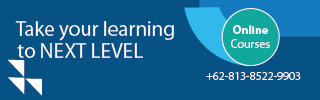
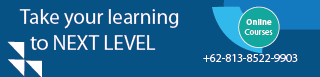
ok

diff --git a/src/pages/Tickets.jsx b/src/pages/Tickets.jsx
@@ -42,6 +42,36 @@ const Tickets = () => {
     const [isCommentsLoading, setIsCommentsLoading] = useState(false);
     const { currentColor, currentMode } = useStateContext();
     const navigate = useNavigate();
+    const getStoredUser = () => {
+        try {
+            return JSON.parse(localStorage.getItem('user') || '{}');
+        } catch (error) {
+            return {};
+        }
+    };
+    const getUserRoles = () => {
+        const storedUser = getStoredUser();
+        const rawRoles = storedUser.roles || storedUser.role || [];
+        if (Array.isArray(rawRoles)) {
+            return rawRoles.map((role) => String(role).toUpperCase());
+        }
+        if (typeof rawRoles === 'string') {
+            return [rawRoles.toUpperCase()];
+        }
+        return [];
+    };
+    const hasRole = (...allowedRoles) => {
+        const roles = getUserRoles();
+        return roles.some((role) => allowedRoles.some((allowed) => role === allowed || role === `ROLE_${allowed}` || `ROLE_${role}` === `ROLE_${allowed}`));
+    };
+    const canManageTickets = () => hasRole('ADMIN');
+    const ensureAdminAccess = (action = 'perform this action') => {
+        if (!canManageTickets()) {
+            alert(`Only admins can ${action}.`);
+            return false;
+        }
+        return true;
+    };
     const getAuthHeaders = () => {
         const token = localStorage.getItem('authToken');
         if (!token) return null;
@@ -245,12 +275,14 @@ const Tickets = () => {
         }));
     };
     const handleEditTicket = () => {
+        if (!ensureAdminAccess('edit tickets')) return;
         setEditFormData(mapTicketToFormData(selectedTicket));
         setIsEditingTicket(true);
     };
     const handleSaveEditedTicket = async (e) => {
         e.preventDefault();
         if (!selectedTicket?.id) return;
+        if (!ensureAdminAccess('edit tickets')) return;
 
         try {
             const headers = getAuthHeaders();
@@ -378,6 +410,7 @@ const Tickets = () => {
     };
     const handleCloseTicket = async () => {
         if (!selectedTicket?.id) return;
+        if (!ensureAdminAccess('close tickets')) return;
         if (!window.confirm(`Are you sure you want to close ticket: ${selectedTicket.noTiket}?`)) return;
 
         try {
@@ -409,6 +442,7 @@ const Tickets = () => {
     };
     const handleAddTicket = async (e) => {
         e.preventDefault();
+        if (!ensureAdminAccess('create tickets')) return;
         try {
             const headers = getAuthHeaders();
             if (!headers) {
@@ -465,6 +499,7 @@ const Tickets = () => {
         }
     };
     const handleDelete = async (rowData) => {
+        if (!ensureAdminAccess('delete tickets')) return;
         if (!window.confirm(`Are you sure you want to delete ticket: ${rowData.noTiket}?`)) {
             return;
         }
@@ -508,7 +543,7 @@ const Tickets = () => {
             textAlign: 'Left',
             template: TicketTemplate
         },
-        { field: 'dibuatOleh', headerText: 'Created By', width: '100', textAlign: 'Center'},
+        { field: 'dibuatOleh', headerText: 'Created By', width: '90', textAlign: 'Center'},
         { field: 'departemen', headerText: 'Department', width: '100', textAlign: 'Center'},
         { 
             field: 'status', 
@@ -528,7 +563,14 @@ const Tickets = () => {
                 );
             }
         },
-        { field: 'createdAt', headerText: 'Created At', width: '100', textAlign: 'Center'},
+        {
+          field: 'createdAt',
+          headerText: 'Created At',
+          width: '100',
+          textAlign: 'Center',
+          type: 'dateTime',
+          format: 'd/M/yy h:mm a' // Result: 21/7/26 7:38 PM
+        },
         { 
             field: 'actions', 
             headerText: 'Actions', 
@@ -543,6 +585,7 @@ const Tickets = () => {
                     >
                         <PiMagnifyingGlassPlusDuotone />
                     </button>
+                {canManageTickets() && (
                     <button 
                         type="button"
                         title="Delete Ticket"
@@ -551,6 +594,7 @@ const Tickets = () => {
                     >
                         <PiTrashDuotone />
                     </button>
+                )}
                 </div>
             ) 
         }
@@ -585,16 +629,16 @@ const Tickets = () => {
                     >
                         <PiEraserDuotone />
                     </button>
-                    <button
-                        title="Add Ticket"
-                        type="button"
-                        // className="w-full sm:w-auto text-green-500 px-3 py-2 rounded-xl text-xs bg-green-200 hover:bg-green-300 transition duration-200"
-                        className="text-green-700 px-3 py-2 rounded-xl text-xs bg-green-200 hover:bg-green-300 transition duration-200"
-                        onClick={handleOpenAddModal}
-                    >
-                        New Ticket
-                        {/* {<PiPenDuotone />} */}
-                    </button>
+                    {canManageTickets() && (
+                        <button
+                            title="Add Ticket"
+                            type="button"
+                            className="text-green-700 px-3 py-2 rounded-xl text-xs bg-green-200 hover:bg-green-300 transition duration-200"
+                            onClick={handleOpenAddModal}
+                        >
+                            New Ticket
+                        </button>
+                    )}
                 </div>
             </div>
             {error && (
@@ -652,7 +696,7 @@ const Tickets = () => {
                             </h3>
                             <div className="flex items-center gap-2">
                                 {/* Display "Close Ticket" option only if the current status is Open */}
-                                {!isEditingTicket && selectedTicket.status === 'Open' && (
+                                {!isEditingTicket && selectedTicket.status === 'Open' && canManageTickets() && (
                                     <button
                                         type="button"
                                         title="Close Ticket"
@@ -663,7 +707,7 @@ const Tickets = () => {
                                     </button>
                                 )}
                             
-                                {!isEditingTicket && (
+                                {!isEditingTicket && canManageTickets() && (
                                     <button
                                         type="button"
                                         title="Edit Ticket"
@@ -733,7 +777,18 @@ const Tickets = () => {
                                                         <li key={comment.id || idx} className="p-3 bg-gray-50 rounded-xl border border-gray-200">
                                                             <p className="text-sm text-gray-800">{comment.comment || comment.text || comment.body || '-'}</p>
                                                             <p className="text-xs text-gray-500 mt-2">
-                                                                {comment.createdAt ? new Date(comment.createdAt).toLocaleString() : 'Unknown time'}
+                                                                {
+                                                                  comment.createdAt
+                                                                    ? new Date(comment.createdAt).toLocaleString('en-GB', {
+                                                                        day: 'numeric',     // 1 - 31
+                                                                        month: 'numeric',   // 1 - 12
+                                                                        year: '2-digit',    // 26
+                                                                        hour: 'numeric',    // 1 - 12
+                                                                        minute: '2-digit',  // 00 - 59
+                                                                        hour12: true        // AM/PM
+                                                                      })
+                                                                    : 'Unknown time'
+                                                                }
                                                             </p>
                                                         </li>
                                                     ))}

diff --git a/src/pages/Devices.jsx b/src/pages/Devices.jsx
@@ -597,11 +597,11 @@ const Devices = () => {
                                     </div>
                                     <div>
                                         <label className="block text-xs text-gray-600 dark:text-gray-400 uppercase tracking-wider mb-1">Manufacture <span className="text-red-500">*</span></label>
-                                        <input type="text" name="manufacture" value={editFormData.manufacture} onChange={handleEditFormChange} className="w-full px-3 py-2 border border-gray-300 rounded-lg bg-gray-50 text-gray-900 focus:outline-none focus:ring-2 focus:ring-blue-500" required />
+                                        <input type="text" name="manufacture" value={editFormData.manufacture} onChange={handleEditFormChange} className="w-full px-3 py-2 border border-gray-300 rounded-lg bg-gray-50 text-gray-900 focus:outline-none focus:ring-2 focus:ring-blue-500" required autoComplete="off" />
                                     </div>
                                     <div>
                                         <label className="block text-xs text-gray-600 dark:text-gray-400 uppercase tracking-wider mb-1">Serial Number</label>
-                                        <input type="text" name="serialNumber" value={editFormData.serialNumber} onChange={handleEditFormChange} className="w-full px-3 py-2 border border-gray-300 rounded-lg bg-gray-50 text-gray-900 focus:outline-none focus:ring-2 focus:ring-blue-500" />
+                                        <input type="text" name="serialNumber" value={editFormData.serialNumber} onChange={handleEditFormChange} className="w-full px-3 py-2 border border-gray-300 rounded-lg bg-gray-50 text-gray-900 focus:outline-none focus:ring-2 focus:ring-blue-500" autoComplete="off" />
                                     </div>
                                     <div>
                                         <label className="block text-xs text-gray-600 dark:text-gray-400 uppercase tracking-wider mb-1">IP Address</label>